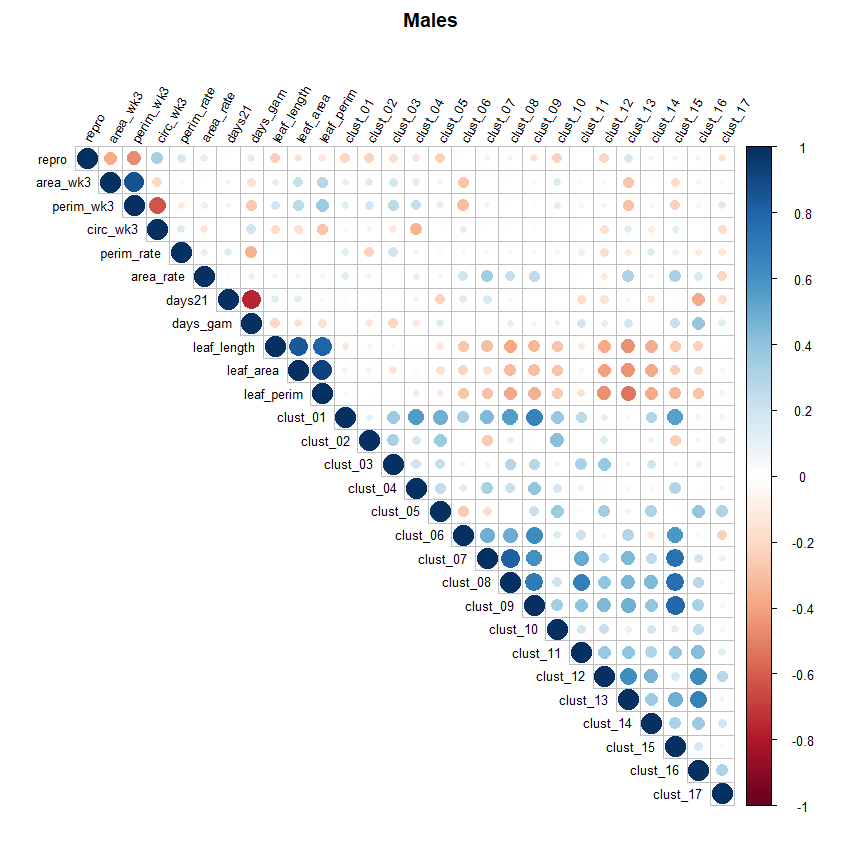
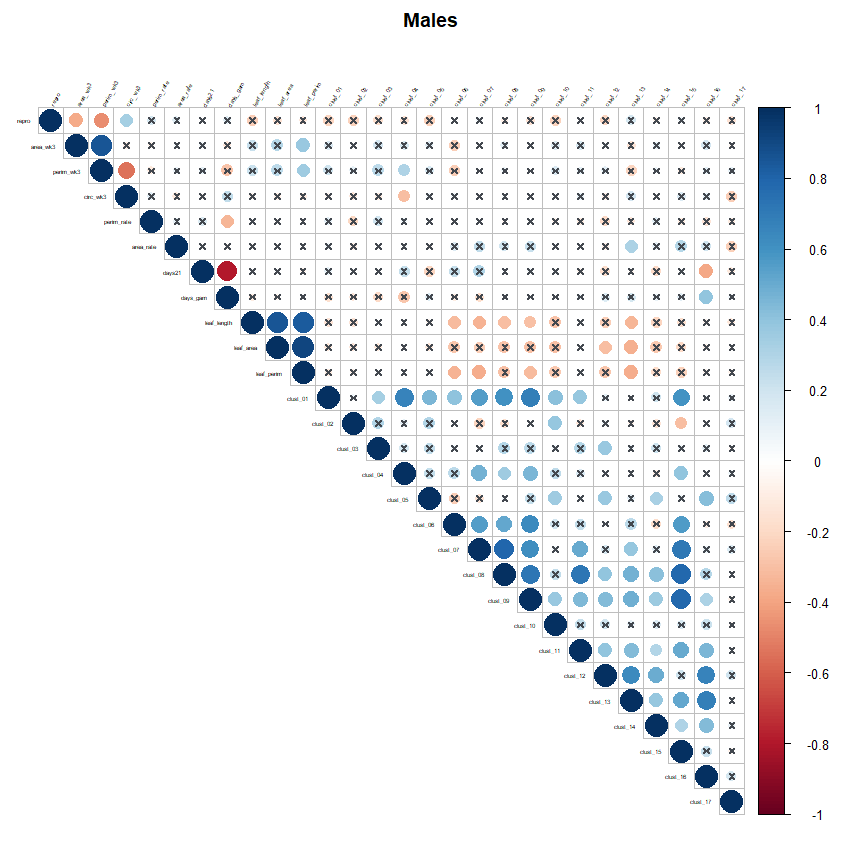
new ifgs with p values for corr

diff --git a/Rmds/Evolution_figures.md b/Rmds/Evolution_figures.md
@@ -22,7 +22,6 @@ Javiera Rudolph
       - [Subtracted matrix](#subtracted-matrix)
   - [Relationship between VOC clusters and the life history
     traits](#relationship-between-voc-clusters-and-the-life-history-traits)
-      - [Males](#males)
 
 # VOCs data
 
@@ -243,8 +242,6 @@ Also can do it with ggplot
 ![](Evolution_figures_files/figure-gfm/unnamed-chunk-12-1.png)<!-- -->
 
 # Relationship between VOC clusters and the life history traits
-
-## Males
 
 1.  Cluster 6 and area at week 3
     ![](Evolution_figures_files/figure-gfm/unnamed-chunk-13-1.png)<!-- -->![](Evolution_figures_files/figure-gfm/unnamed-chunk-13-2.png)<!-- -->![](Evolution_figures_files/figure-gfm/unnamed-chunk-13-3.png)<!-- -->
